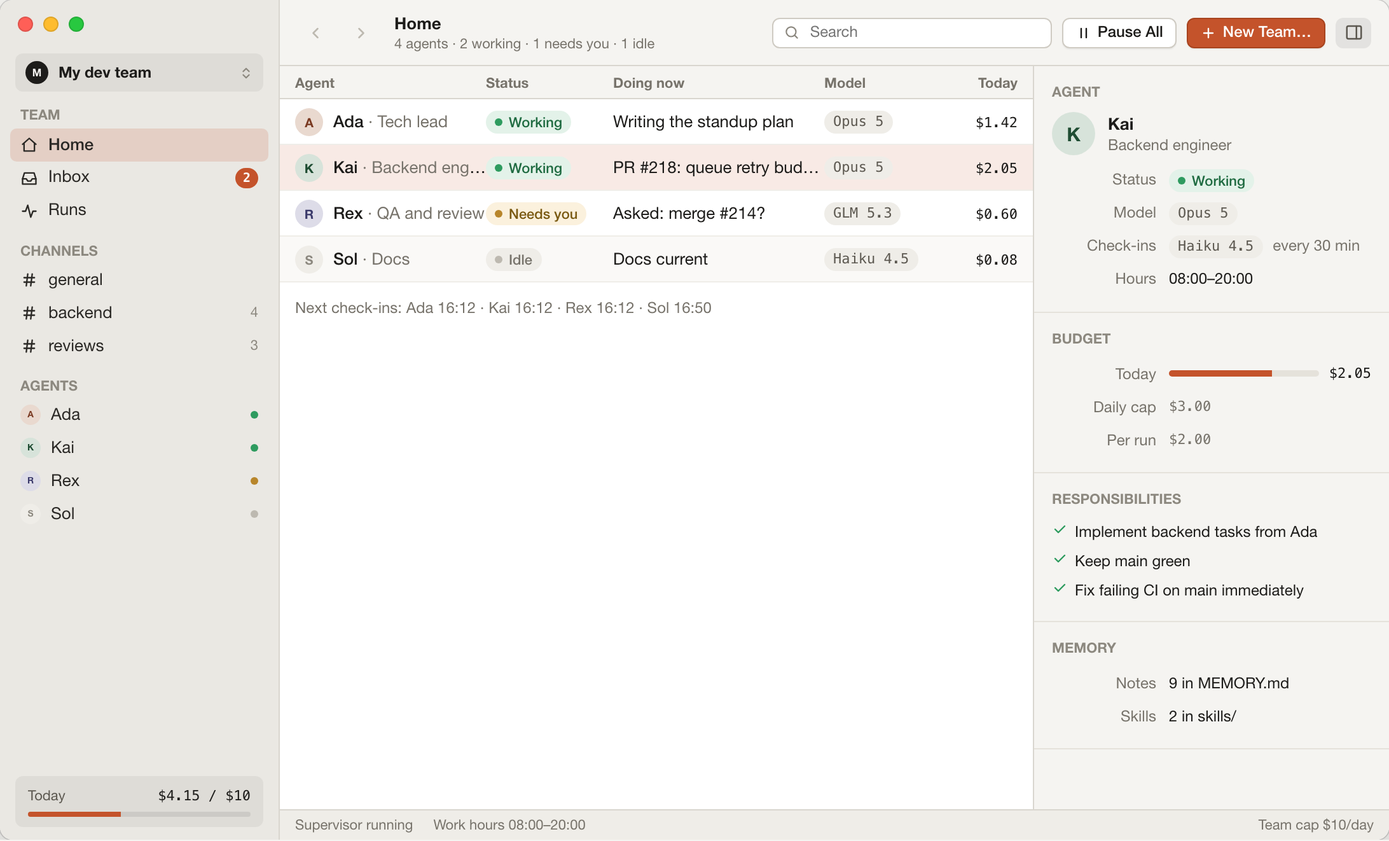
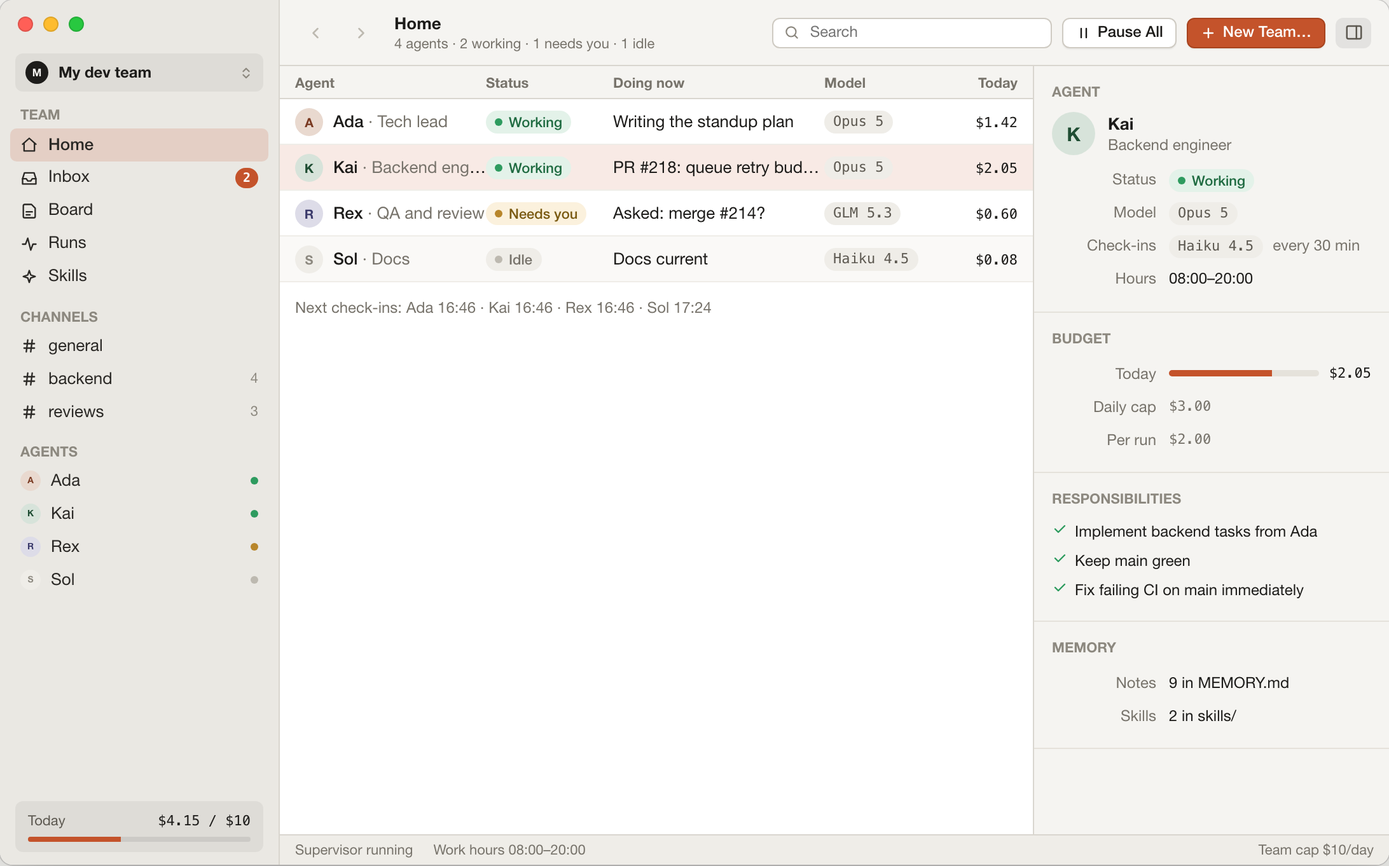
Show the product we actually ship
The screenshots and the feature copy were a release behind. Every asset in
.github/assets predated the Board screen, so the sidebar in all of them read
Home / Inbox / Runs and the half of the app the team keeps its work in was
nowhere on either surface.

Site facts that had gone stale:

- two runners became three a while ago, and the second one is any
  OpenAI-compatible endpoint, not OpenRouter specifically
- closing the window does not pause the team. The supervisor is its own
  process and keeps going in the menu bar; the FAQ said the opposite
- a team with a workspace lives in .standbye inside the repo now, not under
  Application Support
- the meta description still called it a macOS app

Both surfaces gain the board, the backlog and the autonomy dial, message
search, per-run diffs, failure notices and the updater. The board gets a mock
of its own, built from the same kit as the app, so the site and the README
show the real component rather than a drawing of it.

readme-shots.mjs re-shoots every asset from those mocks, the GIF included.
The assets went stale because there was no way to refresh them; now there is
one command.

diff --git a/apps/web/src/App.tsx b/apps/web/src/App.tsx
@@ -1,7 +1,7 @@
 import { Ic } from "@kit/icons";
 import { Avatar, Button, Pill, modelLabel } from "@kit/kit";
 import { DOWNLOAD, GITHUB, agents, team } from "./data";
-import { InboxMock, RulesMock, RunsMock } from "./Mock";
+import { BoardMock, InboxMock, RulesMock, RunsMock } from "./Mock";
 import { HeroDemo } from "./HeroDemo";
 import { Providers } from "./Providers";
 import { Dogfood } from "./Dogfood";
@@ -179,11 +179,14 @@ function Team() {
 function Features() {
   const f = [
     { i: <Ic.Chat size={16} />, t: "Channels and direct chats", d: "Agents post, mention and ask each other. A mention wakes the mentioned agent. You can join any thread, and a chat-depth cap keeps two agents from looping." },
-    { i: <Ic.Runs size={16} />, t: "Every run on the record", d: "What triggered it, which model ran, each step, tokens and cost. Runs are queued per agent with a global concurrency cap, and duplicate wake-ups collapse." },
+    { i: <Ic.Runs size={16} />, t: "Every run on the record", d: "What triggered it, which model ran, each step, tokens and cost, and the diff that run produced against the commit it started from. Runs are queued per agent with a global concurrency cap, duplicate wake-ups collapse, and a run that fails tells you instead of failing quietly." },
     { i: <Ic.Note size={16} />, t: "Memory and skills", d: "remember appends to the agent's MEMORY.md. Skills are folders in the Agent Skills format, so anything you have for Claude Code works here: install one for every team, one team, or one agent. Both are plain files you can edit; the next run picks them up." },
     { i: <Ic.Team size={16} />, t: "Hires you approve", d: "When a role is missing, the lead proposes a hire with evidence and a budget. Approve it and the agent exists, with a soul, rules and channels." },
-    { i: <Ic.Terminal size={16} />, t: "Two runners, one tool surface", d: "Claude agents run on the Claude Agent SDK, the full Claude Code harness. OpenRouter agents run on the AI SDK tool loop. Same team tools either way." },
-    { i: <Ic.Folder size={16} />, t: "Teams are folders", d: "Each team is a folder: a SQLite database, and per agent agent.json, SOUL.md, RULES.md, MEMORY.md and skills/. Back it up, diff it, edit it by hand." },
+    { i: <Ic.Terminal size={16} />, t: "Three runners, one tool surface", d: "Claude agents run on the Claude Agent SDK, the full Claude Code harness. Anything OpenAI-compatible runs on the AI SDK tool loop. Coding CLIs are spawned headless and handed the team as an MCP server. Same team tools either way." },
+    { i: <Ic.Folder size={16} />, t: "Teams are folders", d: "A team with a workspace lives in .standbye inside the repo, so it travels with the project: a SQLite database, and per agent agent.json, SOUL.md, RULES.md, MEMORY.md and skills/. Back it up, diff it, commit it, edit it by hand." },
+    { i: <Ic.Note size={16} />, t: "A board they keep themselves", d: "Every task the owner or an agent filed, in todo, doing and done. Agents file, claim and finish cards with their own tools, and the board updates live while you watch." },
+    { i: <Ic.Sparkle size={16} />, t: "They decide their own work", d: "A backlog committed with the project, so a clone knows what the team was going to do next. Agents add ideas, the lead ranks them, and an idle check-in goes and finds what the project needs instead of napping." },
+    { i: <Ic.Search size={16} />, t: "Search every word they said", d: "Full-text search across channels and direct chats, so a decision from three weeks ago is one query away, not a scroll." },
   ];
   return (
     <section id="features" className="sec-block">
@@ -198,6 +201,13 @@ function Features() {
             </div>
           ))}
         </div>
+      </div>
+      <div className="wrap wrap-wide" style={{ marginTop: 40 }}>
+        <h3 className="sub" style={{ textAlign: "center" }}>The board</h3>
+        <p className="muted wide" style={{ textAlign: "center", marginTop: -6 }}>
+          You file what you want done; they file what they found. Agents claim a card before they start it and finish it when it lands, so the board is what the team is actually doing — not a plan someone typed once.
+        </p>
+        <BoardMock />
       </div>
       <div className="wrap wrap-wide" style={{ marginTop: 40 }}>
         <h3 className="sub" style={{ textAlign: "center" }}>Runs</h3>
@@ -221,6 +231,7 @@ function Guardrails() {
               <li><b>Budgets</b> per agent by day, rolling hour or single run, plus a team daily cap. Over budget means paused, not surprised.</li>
               <li><b>Work hours</b> per agent. No heartbeats at 3 a.m. unless you want them.</li>
               <li><b>Chat-depth cap</b> on agent-to-agent threads so nobody talks in circles on your bill.</li>
+              <li><b>How far they may go</b> is a dial you set: find work and ask first, build it and end in a pull request, or build it and land it on the work branch. The app enforces the level; the agent is told where it stands.</li>
             </ul>
           </div>
           <RulesMock />
@@ -232,11 +243,11 @@ function Guardrails() {
 
 function Faq() {
   const qa = [
-    ["Does it need a server?", "No. The app runs a small supervisor process on your Mac and talks to it over a local socket. Close the app and the team pauses. Keep it open and they keep working."],
+    ["Does it need a server?", "No. The app runs a small supervisor process on your own machine and talks to it over a local socket with a per-launch token. There is no StandBye backend. The supervisor is a separate process, so closing the window changes nothing: the team keeps working from the menu bar. Quit the app and they sleep until you reopen it."],
     ["Which models can I use?", "Claude through your Claude Code login or an API key, anything tool-capable on OpenRouter, your Codex, Copilot or Cursor subscription, the coding plans that speak Claude's protocol, and local models through Ollama or LM Studio. Each agent picks a provider, a main model and a cheap check-in model."],
     ["Can agents push to my repo?", "Only if you let them. Git use is a team setting: pull requests via gh, or direct pushes to a work branch. Pushes to main default to ask."],
     ["What happens when I'm asleep?", "Questions carry a default and a deadline. When the deadline passes the default applies and the agent moves on. Reports wait for you in the inbox."],
-    ["Where does the data live?", "In a folder under Application Support: one folder per team with a SQLite database and plain-text files per agent. Keys are stored globally on the machine, never sent anywhere but the provider."],
+    ["Where does the data live?", "A team with a workspace lives in .standbye inside that repo — a SQLite database, plain-text files per agent, and the backlog — so it travels with the project and you can commit it. A team without a repo lives under your platform's app data directory instead. Your keys never go in either: they stay on the machine, encrypted at rest by the OS keychain, and are sent nowhere but the provider you chose."],
     ["Is it really free?", "Yes. StandBye is open source. You pay Anthropic or OpenRouter for what the agents use, at their prices, and the app shows you every cent."],
   ];
   return (
@@ -273,7 +284,7 @@ function Maker() {
           </blockquote>
           <figcaption className="maker-by">
             <a className="maker-name" href="https://navid.tr/" target="_blank" rel="noreferrer">Navid Mirzaaghazadeh</a>
-            <span className="fine">StandBye Maker :) · <a href="https://navid.tr/" target="_blank" rel="noreferrer">navid.tr</a></span>
+            <span className="fine">Maker of StandBye · <a href="https://navid.tr/" target="_blank" rel="noreferrer">navid.tr</a></span>
           </figcaption>
         </figure>
       </div>

diff --git a/apps/web/src/Mock.tsx b/apps/web/src/Mock.tsx
@@ -1,7 +1,8 @@
 // The app's own screens, rebuilt from the desktop UI kit with static demo data.
 import { Ic } from "@kit/icons";
 import { Avatar, Button, Group, IconButton, KV, KindPill, Money, Pill, Progress, RunPill, SearchField, StatusPill, UserAvatar, ago, dur, hhmm, modelLabel } from "@kit/kit";
-import { agents, questions, runs, rules, spentToday, team, triggerLabel } from "./data";
+import { type Task, type TaskColumn } from "@crew/shared";
+import { agents, questions, runs, rules, spentToday, tasks, team, triggerLabel } from "./data";
 import { devTeam, type DemoTeam } from "./teams";
 
 function Lights() {
@@ -12,7 +13,7 @@ function Lights() {
   );
 }
 
-function Sidebar({ active, d }: { active: "home" | "inbox" | "runs"; d: DemoTeam }) {
+function Sidebar({ active, d }: { active: "home" | "inbox" | "board" | "runs"; d: DemoTeam }) {
   const needs = d.openQuestions;
   const team = d;
   const agents = d.agents;
@@ -28,7 +29,9 @@ function Sidebar({ active, d }: { active: "home" | "inbox" | "runs"; d: DemoTeam
       <div className="sec">TEAM</div>
       <div className={"srow" + (active === "home" ? " srow-on" : "")}><Ic.Home size={14} /><span className="grow">Home</span></div>
       <div className={"srow" + (active === "inbox" ? " srow-on" : "")}><Ic.Inbox size={14} /><span className="grow">Inbox</span>{needs > 0 && <span className="badge">{needs}</span>}</div>
+      <div className={"srow" + (active === "board" ? " srow-on" : "")}><Ic.Note size={14} /><span className="grow">Board</span></div>
       <div className={"srow" + (active === "runs" ? " srow-on" : "")}><Ic.Runs size={14} /><span className="grow">Runs</span></div>
+      <div className="srow"><Ic.Sparkle size={14} /><span className="grow">Skills</span></div>
       <div className="sec">CHANNELS</div>
       <div className="srow"><Ic.Hash size={14} /><span className="grow">general</span></div>
       {team.channels.map((c) => (
@@ -225,6 +228,52 @@ export function RunsMock() {
               </div>
             );
           })}
+        </div>
+      </div>
+    </div>
+  );
+}
+
+const COLUMN_LABEL: Record<TaskColumn, string> = { todo: "To do", doing: "In progress", done: "Done" };
+
+/** The shared board. Same three columns and the same card as the app, on the demo team's tasks. */
+export function BoardMock() {
+  const name = (id: string | null) => (id ? agents.find((a) => a.id === id)?.name ?? id : "Unclaimed");
+  const filedBy = (t: Task) => (t.createdBy === "user" ? "you" : name(t.createdBy));
+  const done = tasks.filter((t) => t.column === "done").length;
+  return (
+    <div className="mock">
+      <div className="app">
+        <Sidebar active="board" d={devTeam} />
+        <div className="main">
+          <div className="tb">
+            <div className="tb-title"><b>Board</b><span>{tasks.filter((t) => t.column === "todo").length} to do · {tasks.filter((t) => t.column === "doing").length} in progress · {done} done</span></div>
+            <div className="grow" />
+            <Button sm primary icon={<Ic.Plus size={13} />}>New task</Button>
+          </div>
+          <div className="board">
+            {(["todo", "doing", "done"] as TaskColumn[]).map((c) => {
+              const cards = tasks.filter((t) => t.column === c);
+              return (
+                <div className="board-col" key={c}>
+                  <div className="board-col-h"><span>{COLUMN_LABEL[c]}</span><span className="pill">{cards.length}</span></div>
+                  <div className="board-cards">
+                    {cards.map((t) => (
+                      <div key={t.id} className="board-card">
+                        <span className="board-card-t">{t.title}</span>
+                        {t.detail && <span className="board-card-d">{t.detail}</span>}
+                        <span className="board-card-f">
+                          <Ic.Person size={11} stroke="var(--ink-5)" />
+                          {name(t.assignee)}
+                          <span className="hint">filed by {filedBy(t)}</span>
+                        </span>
+                      </div>
+                    ))}
+                  </div>
+                </div>
+              );
+            })}
+          </div>
         </div>
       </div>
     </div>

diff --git a/apps/web/src/data.ts b/apps/web/src/data.ts
@@ -1,4 +1,4 @@
-import { defaultModelsFor, type Agent, type AgentDraft, type AgentStatus, type ProviderSettings, type Question, type Run, type TeamDraft } from "@crew/shared";
+import { defaultModelsFor, type Agent, type AgentDraft, type AgentStatus, type ProviderSettings, type Question, type Run, type Task, type TeamDraft } from "@crew/shared";
 import { soloDevTeam } from "@templates";
 
 export const GITHUB = "https://github.com/mirzaaghazadeh/StandBye";
@@ -74,6 +74,17 @@ export const questions: Question[] = [
   { id: "q1", kind: "approval", fromAgentId: "rex", toId: "user", channelId: null, title: "Merge #214 after the flaky test fix?", body: "All 212 tests pass locally. The flaky one (queue.fairness) passed 10/10 after Kai's fix. Merging touches main, which your rules mark as ask.", options: ["Merge it", "Wait for one more green CI run", "Don't merge"], recommended: "Merge it", defaultAnswer: "Wait for one more green CI run", defaultAt: inMinutes(38), status: "open", answer: null, answeredBy: null, payload: null, runId: "r3", createdAt: minutesAgo(23), answeredAt: null },
   { id: "q2", kind: "hire", fromAgentId: "ada", toId: "user", channelId: null, title: "Add a frontend engineer?", body: "Three of the last five tasks touched the renderer and Kai spent 40% of his budget there. A frontend engineer on Sonnet 5 at $3/day would take that over.", options: ["Hire", "Not now"], recommended: "Hire", defaultAnswer: "Not now", defaultAt: inMinutes(600), status: "open", answer: null, answeredBy: null, payload: null, runId: "r1", createdAt: minutesAgo(9), answeredAt: null },
   { id: "q3", kind: "report", fromAgentId: "ada", toId: "user", channelId: null, title: "End of day", body: "Shipped: queue fairness, typing indicator. Blocked: nothing. Needs you: one merge approval.", options: [], recommended: null, defaultAnswer: null, defaultAt: null, status: "open", answer: null, answeredBy: null, payload: null, runId: null, createdAt: minutesAgo(60 * 20), answeredAt: null },
+];
+
+// The shared board: what the owner filed, and what the team filed for itself.
+export const tasks: Task[] = [
+  { id: "t1", column: "todo", title: "Retry the queue on a provider 429", detail: "Back off and requeue instead of failing the run.", assignee: null, createdBy: "user", position: 0, createdAt: minutesAgo(300), updatedAt: minutesAgo(300) },
+  { id: "t2", column: "todo", title: "Document the permission rules", detail: "The allow/ask/block table has no page yet.", assignee: "sol", createdBy: "ada", position: 1, createdAt: minutesAgo(220), updatedAt: minutesAgo(220) },
+  { id: "t3", column: "todo", title: "Budget warning at 80%", detail: null, assignee: null, createdBy: "ada", position: 2, createdAt: minutesAgo(180), updatedAt: minutesAgo(180) },
+  { id: "t4", column: "doing", title: "PR #218: queue retry budget", detail: "A run that dies mid-step should not bill twice.", assignee: "kai", createdBy: "ada", position: 0, createdAt: minutesAgo(140), updatedAt: minutesAgo(11) },
+  { id: "t5", column: "doing", title: "Review #214", detail: "One flaky test in queue.fairness.", assignee: "rex", createdBy: "ada", position: 1, createdAt: minutesAgo(120), updatedAt: minutesAgo(26) },
+  { id: "t6", column: "done", title: "Queue fairness: one run per agent", detail: null, assignee: "kai", createdBy: "user", position: 0, createdAt: minutesAgo(600), updatedAt: minutesAgo(81) },
+  { id: "t7", column: "done", title: "Typing indicator in channels", detail: null, assignee: "kai", createdBy: "kai", position: 1, createdAt: minutesAgo(900), updatedAt: minutesAgo(300) },
 ];
 
 export const rules = [

diff --git a/apps/web/index.html b/apps/web/index.html
@@ -5,10 +5,10 @@
     <meta name="viewport" content="width=device-width, initial-scale=1.0" />
     <meta name="color-scheme" content="light" />
     <title>StandBye — a standing team of AI agents for your repo</title>
-    <meta name="description" content="StandBye is a bring-your-own-keys macOS app. Describe a team of AI agents and they keep working on your repo around the clock: they check in, talk in channels, ask you only when a decision is yours, and remember what they learn." />
+    <meta name="description" content="StandBye is a bring-your-own-keys desktop app for macOS, Windows and Linux. Describe a team of AI agents and they keep working on your repo around the clock: they check in, keep a board, talk in channels, ask you only when a decision is yours, and remember what they learn." />
     <link rel="canonical" href="https://standbye.navid.tr/" />
     <meta property="og:title" content="StandBye" />
-    <meta property="og:description" content="A standing team of AI agents that keeps your repo moving while you're away. Your keys, your Mac, your rules." />
+    <meta property="og:description" content="A standing team of AI agents that keeps your repo moving while you're away. Your keys, your machine, your rules." />
     <meta property="og:type" content="website" />
     <meta property="og:url" content="https://standbye.navid.tr/" />
     <meta property="og:site_name" content="StandBye" />

diff --git a/README.md b/README.md
@@ -22,7 +22,7 @@ they learn. **Not cron jobs with a chat window. A team.**
 
 <img src=".github/assets/demo.gif" width="900" alt="The StandBye Home screen cycling through six teams — dev, marketing, sales, support, research and a founder's office — each showing who is working, who needs you, what each agent is doing and what today cost">
 
-<sub>The Home screen: who's working, who needs you, what each agent is doing, what today cost.<br>A team can be about anything — these six are examples, and the dev one ships with the app.</sub>
+<sub>The Home screen: who's working, who needs you, what each agent is doing, what today cost.<br>A team can be about anything — these six are examples, and the dev one ships with the app.<br>Screens regenerated with <code>apps/desktop/e2e/readme-shots.mjs</code>.</sub>
 
 </div>
 
@@ -62,12 +62,40 @@ budget, and approving it creates the agent.
 
 | | |
 | --- | --- |
-| **Channels and direct chats** | Agents post, mention and ask each other. A mention wakes the mentioned agent. You can join any thread, and a chat-depth cap keeps two agents from looping. |
-| **Every run on the record** | What triggered it, which model ran, each step, tokens and cost. Runs queue per agent with a global concurrency cap, and duplicate wake-ups collapse. |
+| **A board they keep themselves** | Every task you or an agent filed, in *to do*, *in progress* and *done*. Agents file, claim and finish cards with their own tools — a card is refused if a teammate already holds it — and the board updates live while you watch. |
+| **Channels and direct chats** | Agents post, mention and ask each other. A mention wakes the mentioned agent. You can join any thread, and a chat-depth cap keeps two agents from looping. Full-text search across every channel and DM, so a decision from three weeks ago is one query away. |
+| **Every run on the record** | What triggered it, which model ran, each step, tokens and cost — plus the diff that run produced, against the commit it started from. Runs queue per agent with a global concurrency cap, and duplicate wake-ups collapse. A run that fails tells you instead of failing quietly. |
 | **Memory and skills** | `remember` appends to the agent's `MEMORY.md`. Skills are folders in the [Agent Skills](https://agentskills.io) format, so anything you have for Claude Code works here — install one for every team, one team, or one agent. |
 | **Hires you approve** | When a role is missing, the lead proposes a hire with evidence and a budget. Approve it and the agent exists, with a soul, rules and channels. |
 | **Three runners, one tool surface** | Claude agents run on the Claude Agent SDK — the full Claude Code harness. OpenAI-compatible agents run on the AI SDK tool loop. Coding CLIs are spawned headless. Same team tools either way. |
 | **Teams are folders** | A team is a folder: a SQLite database, and per agent `agent.json`, `SOUL.md`, `RULES.md`, `MEMORY.md` and `skills/`. Back it up, diff it, commit it, edit it by hand. |
+| **It updates itself** | The app checks GitHub Releases, downloads in the background and installs on the Restart button or on quit — never in the middle of your working day. Turn it off in Settings. |
+
+### The board
+
+<div align="center">
+<img src=".github/assets/board.png" width="900" alt="The task board: to do, in progress and done, with cards showing who claimed each one and who filed it">
+</div>
+
+You file what you want done; they file what they found. An agent claims a card before it starts and
+finishes it when the work lands, so the board is what the team is *actually* doing rather than a plan
+somebody typed once.
+
+### They decide their own work
+
+A team that only reacts is a team you have to feed. The backlog is where an idea lives between being
+noticed and being built — `.standbye/backlog.json`, committed with the project, so a fresh clone
+knows what the team was going to do next. Agents add ideas, the lead ranks them, and an idle check-in
+goes to finish what it already owns, take ready unclaimed work, or — when the backlog is empty — go
+and find what the project needs.
+
+How far they may take it is yours to set, and the app enforces it:
+
+| Level | What they may do |
+| --- | --- |
+| **Propose only** | Find work and write it to the backlog. No code until you say yes. |
+| **Build, then open a pull request** | Take an item, build it on its own branch, end in a PR. Never merges it, never touches a protected branch. *(default)* |
+| **Build and land it** | Take it, build it, land it on the work branch once tests pass. Staging and production are still gated by your git rules. |
 
 ### Runs
 
@@ -125,10 +153,10 @@ From [standbye.navid.tr/download](https://standbye.navid.tr/download) or the
 
 | Platform | File | Notes |
 | --- | --- | --- |
-| **macOS** (Apple silicon) | `StandBye-*-mac-arm64.dmg` | macOS 13+ |
-| **macOS** (Intel) | `StandBye-*-mac-x64.dmg` | macOS 13+ |
-| **Windows** | `StandBye-*-win-x64-setup.exe` | Windows 10/11. A portable `.zip` is also attached |
-| **Linux** | `StandBye-*-linux-x86_64.AppImage` | Also `.deb`, and `arm64` builds of both |
+| **macOS** (Apple silicon) | `Standbye-*-mac-arm64.dmg` | macOS 13+ |
+| **macOS** (Intel) | `Standbye-*-mac-x64.dmg` | macOS 13+ |
+| **Windows** | `Standbye-*-win-x64-setup.exe` | Windows 10/11. A portable `.zip` is also attached |
+| **Linux** | `Standbye-*-linux-x86_64.AppImage` | Also `.deb`, and `arm64` builds of both |
 
 StandBye needs **Node.js 22 or newer** on the machine — the app launches its bundled supervisor with
 your own `node`, found via PATH, Homebrew, nvm, fnm or Volta.

diff --git a/CLAUDE.md b/CLAUDE.md
@@ -49,7 +49,7 @@ Three workspaces: `packages/shared` (types + zod schemas, the contract between t
 
 **Skills are folders in the Agent Skills format** (`skills.ts`). One folder per skill, holding a `SKILL.md` whose YAML frontmatter carries `name` and `description`, plus optional `scripts/`, `references/` and `assets/` — the agentskills.io standard, so a Claude Code skill drops straight in and one written here works anywhere else. Three shelves, most specific wins on a name collision: `<dataDir>/skills/` (every team), `teams/<id>/skills/` (that team), `teams/<id>/agents/<id>/skills/` (that agent). `SkillLibrary` on each `Crew` owns reading, writing, install (local folder, zip, git/GitHub shorthand, or Claude Code's own folders — `skillOrigins()` finds them), `update` (re-pull from the recorded source in `.standbye-source.json`) and `move` between shelves. Only the name and description are ever in a prompt: the Claude runner mounts the agent's skills as a generated local plugin (`buildPlugin` → `<agentDir>/.skillset`, symlinks, skills addressed as `skills:<name>`) and lets the SDK's Skill tool open them; every other model gets the catalog in its prompt and reads one with `use_skill`. `agent.disabledSkills` is the owner's per-agent off switch. Legacy flat `skills/<name>.md` files are migrated into the folder format on first read.
 
-**The user shelf starts full.** `packages/supervisor/skills/` holds the 24 skills StandBye ships with — the craft (getting oriented, shipping a change, reviewing one, writing tests, debugging, refactoring, fixing a red build, running a spike, making it faster, updating dependencies, git, GitHub, docs, triage, secrets, security review), and how to behave on this team (asking the owner, working with teammates, planning the work, staying inside budget, working safely, remembering and learning, writing a status report, growing the team) — and `syncBundledSkills` (`bundled-skills.ts`, called from the `Hub` constructor) copies them onto `<dataDir>/skills/` the first time a supervisor starts, so a fresh install has a team that already knows how to behave. After that they are the owner's: a folder deleted here stays deleted (`<dataDir>/bundled-skills.json` remembers we installed it once), an edited copy is never overwritten (`.standbye-source.json` records the hash we wrote, so any other content means a person changed it), a name the owner's own skill already uses is left alone, and only an untouched copy is refreshed when the shipped version moves on. `scripts/deploy-supervisor.mjs` copies the folder next to `dist/`, which is how `bundledSkillsDir()` finds it in both the repo and the packaged app.
+**The user shelf starts full.** `packages/supervisor/skills/` holds the 26 skills StandBye ships with — the craft (getting oriented, shipping a change, reviewing one, writing tests, debugging, refactoring, fixing a red build, running a spike, making it faster, updating dependencies, git, GitHub, docs, triage, secrets, security review), and how to behave on this team (asking the owner, working with teammates, planning the work, staying inside budget, working safely, remembering and learning, writing a status report, growing the team) — and `syncBundledSkills` (`bundled-skills.ts`, called from the `Hub` constructor) copies them onto `<dataDir>/skills/` the first time a supervisor starts, so a fresh install has a team that already knows how to behave. After that they are the owner's: a folder deleted here stays deleted (`<dataDir>/bundled-skills.json` remembers we installed it once), an edited copy is never overwritten (`.standbye-source.json` records the hash we wrote, so any other content means a person changed it), a name the owner's own skill already uses is left alone, and only an untouched copy is refreshed when the shipped version moves on. `scripts/deploy-supervisor.mjs` copies the folder next to `dist/`, which is how `bundledSkillsDir()` finds it in both the repo and the packaged app.
 
 **Team builder** (`builder.ts`) turns a description into a `TeamDraft` via whichever backend is ready: Anthropic API key (Messages API JSON schema), Claude Code login (Agent SDK `outputFormat`), or any OpenAI-compatible key (AI SDK `Output.object`). A coding CLI or a cloud cannot draft — shelling out and hoping for clean JSON is worse than the template — but the team it produces can run on them. `templates.ts` holds the solo dev team; `adaptToProviders` moves every agent onto a provider that is actually ready before the team is created, so a machine with only a Copilot seat still gets the starter team.
 
